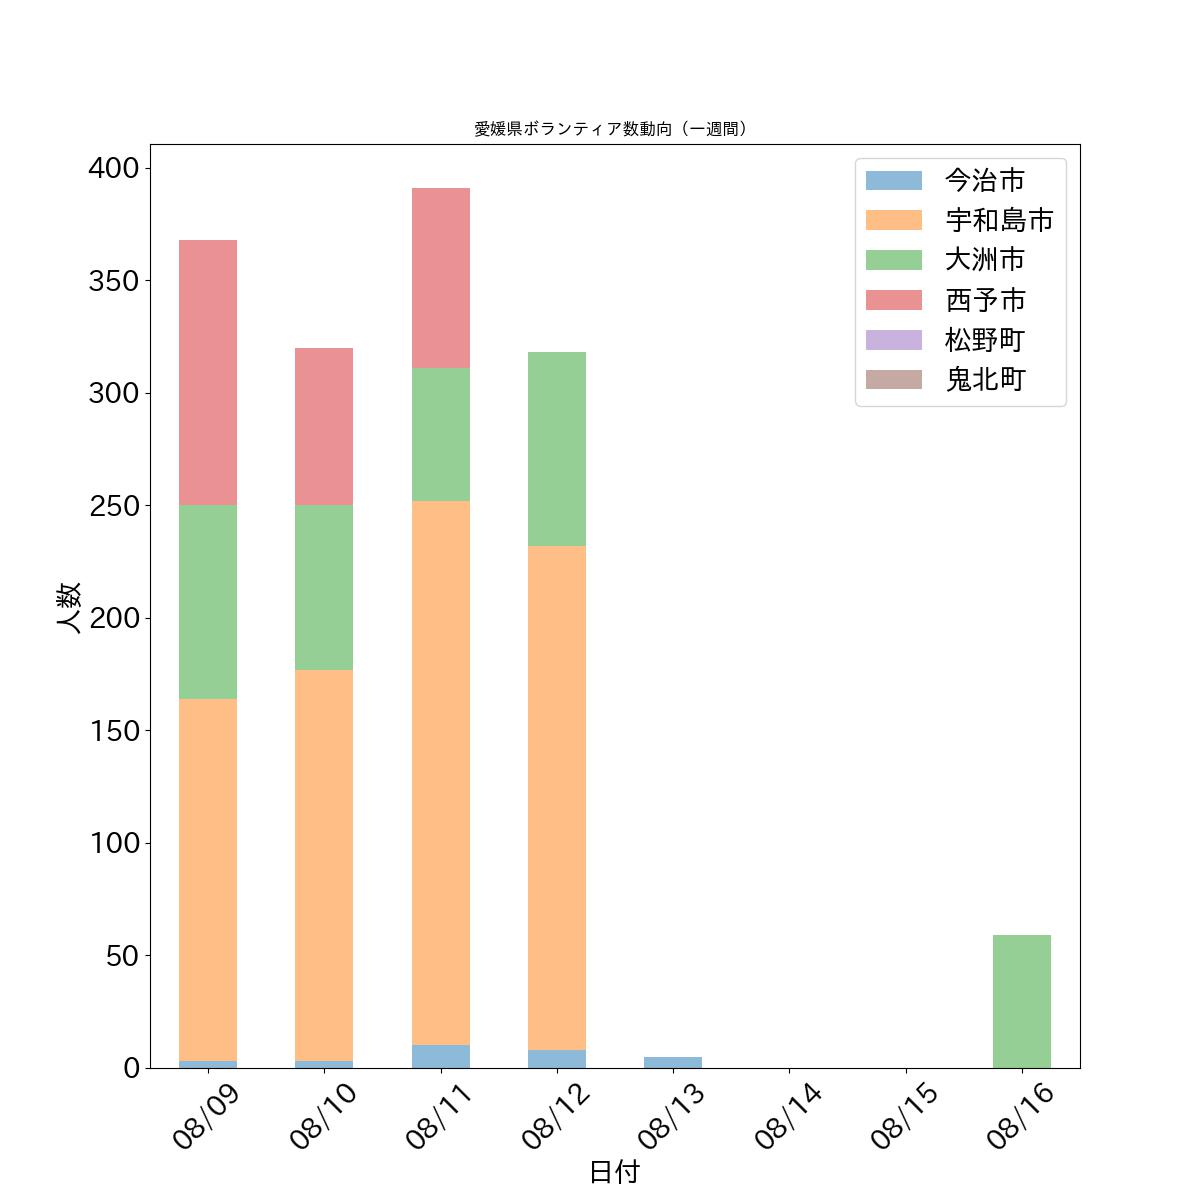
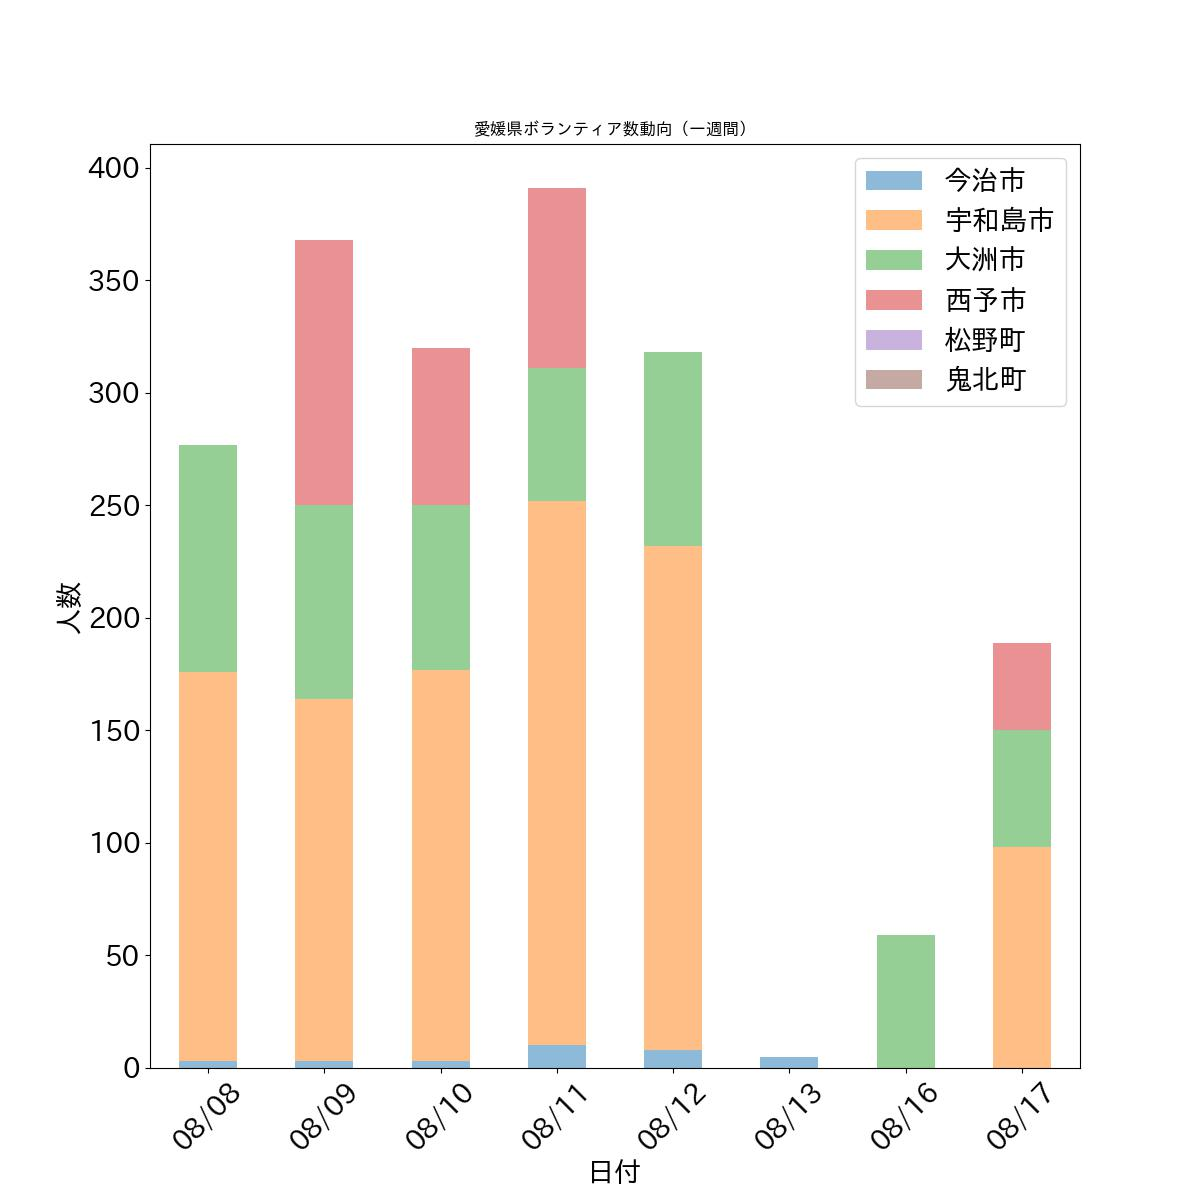
8/17版更新

diff --git a/_pages/volunteer_aggregation.md b/_pages/volunteer_aggregation.md
@@ -1,9 +1,9 @@
 ---
-title: 【8/16版 愛媛県ボランティア数動向】
+title: 【8/17版 愛媛県ボランティア数動向】
 description: 松山市社協、八幡浜市社協、愛媛災害支援センターが公開しているデータを元に、ボランティア数のグラフを作成・公開しています。
 permalink: /volunteer/aggregation/
 date: 2018-07-18 05:59:06 +0900
-last_modified_at: 2018-08-16 09:11:35 +0900
+last_modified_at: 2018-08-18 00:23:11 +0900
 header:
   overlay_image: /assets/images/volunteer_count.png
   overlay_filter: 0.5
@@ -12,7 +12,7 @@ sidebar:
 
 ---
 
-## 【8/16から過去一週間分データ更新】
+## 【8/17から過去一週間分データ更新】
 
 各社協、ボランティアセンターが公開している情報を元に、愛媛県内のボランティア数の一覧とグラフを公開しています。データ数が増えてきたので過去８日以内の表示にしています。8/5までデータは[こちら](https://docs.google.com/spreadsheets/d/1h-GFHoNa55P96wu_HNbPk899eN4HZcnu1T9q4eag8Uc/edit#gid=0)にあります。 現在は[愛媛県災害ボランティア特設サイト](https://ehimesvc.jp/)から直接取得しています。 [^1]
 
@@ -24,27 +24,27 @@ sidebar:
 
 平日の募集は300人、個人は四国圏内からの募集となっています。募集については[こちら](/volunteer-new/uwajima/)まで。
 
- ![宇和島ボラ数（募集と実績）](/assets/images/volunteer_headcount/宇和島市_volunteer_headcount_diff_20180816.png)
+ ![宇和島ボラ数（募集と実績）](/assets/images/volunteer_headcount/宇和島市_volunteer_headcount_diff_recent.png)
 
 ### 大洲市
 
 8/11より事前予約制となり当日受け付けがなくなりました。県内限定の募集となっています。募集については[こちら](/volunteer-new/ozu/)まで。
 
- ![大洲市ボラ数（募集と実績）](/assets/images/volunteer_headcount/大洲市_volunteer_headcount_diff_20180816.png)
+ ![大洲市ボラ数（募集と実績）](/assets/images/volunteer_headcount/大洲市_volunteer_headcount_diff_recent.png)
 
 ### 西予市
 
 8/13より事前予約制となり、事前予約は四国圏内の募集となりました。募集については[こちら](/volunteer-new/seiyo/)まで。
 
- ![西予市ボラ数（募集と実績）](/assets/images/volunteer_headcount/西予市_volunteer_headcount_diff_20180816.png)
+ ![西予市ボラ数（募集と実績）](/assets/images/volunteer_headcount/西予市_volunteer_headcount_diff_recent.png)
 
 ## 前日・前週からの変化
 
 エリア | 前日比 | 前週同日比
 ---------|----------|---------
-宇和島市 | :arrow_right:0.0 | :arrow_right:0.0
-大洲市 | :arrow_upper_right:59.0 | :arrow_upper_right:59.0
-西予市 | :arrow_right:0.0 | :arrow_right:0.0
+宇和島市 | :arrow_upper_right:98.0 | :arrow_upper_right:98.0
+大洲市 | :arrow_lower_right:-7.0 | :arrow_lower_right:-7.0
+西予市 | :arrow_upper_right:39.0 | :arrow_upper_right:39.0
 
 
 暑い日が続きますが、ボランティア時に気をつける[熱中症対策のイラストリーフレット](https://cheerup-ehime.github.io/volunteer/heatstroke-illustrated/)を作成しましたので、是非ご活用ください。（https://cheerup-ehime.github.io/volunteer/heatstroke-illustrated/）
@@ -58,12 +58,14 @@ sidebar:
 
 | 日付   |   今治市 |   宇和島市 |   大洲市 |   西予市 |   松野町 |   鬼北町 |
 |:-------|---------:|-----------:|---------:|---------:|---------:|---------:|
+| 08/08  |        3 |        173 |      101 |        0 |        0 |        0 |
 | 08/09  |        3 |        161 |       86 |      118 |        0 |        0 |
 | 08/10  |        3 |        174 |       73 |       70 |        0 |        0 |
 | 08/11  |       10 |        242 |       59 |       80 |        0 |        0 |
 | 08/12  |        8 |        224 |       86 |        0 |        0 |        0 |
 | 08/13  |        5 |          0 |        0 |        0 |        0 |        0 |
 | 08/16  |        0 |          0 |       59 |        0 |        0 |        0 |
+| 08/17  |        0 |         98 |       52 |       39 |        0 |        0 |
 
 ## 【週毎のボランティア数動向】
 
@@ -76,7 +78,7 @@ sidebar:
 | 07/29週 |       87 |       1546 |      976 |     1036 |       26 |        0 |
 | 08/05週 |       43 |       1446 |      689 |      700 |        0 |        0 |
 | 08/12週 |       33 |       1413 |      574 |      472 |        0 |        0 |
-| 08/19週 |        5 |          0 |       59 |        0 |        0 |        0 |
+| 08/19週 |        5 |         98 |      111 |       39 |        0 |        0 |
 
 ### 元データ
 

diff --git a/_posts/2018-08-17-volunteer-aggregation-0817.md b/_posts/2018-08-17-volunteer-aggregation-0817.md
@@ -1,0 +1,24 @@
+---
+title: 【8/17版 愛媛県ボランティア数動向を公開しました】
+description: 松山市社協、八幡浜市社協、愛媛災害支援センターが公開しているデータを元に、ボランティア数のグラフを毎日作成・公開しています。
+date: 2018-08-17 00:20:38 +0900
+last_modified_at: 2018-08-17 00:20:38 +0900
+category: ボランティア
+tag:
+  - ボランティア動向
+header:
+  overlay_image: /assets/images/volunteer_count.png
+  overlay_filter: 0.5
+sidemenu:
+    nav: posts-menu
+---
+
+【8/17】版の、愛媛県ボランティア数動向を公開しました。
+
+![日次グラフ](/assets/images/volunteer_count.png)
+
+![週次グラフ](/assets/images/volunteer_count_week.png)
+
+詳しくは以下のページで御覧ください。
+
+**情報元**:[/volunteer/aggregation/](/volunteer/aggregation/)
